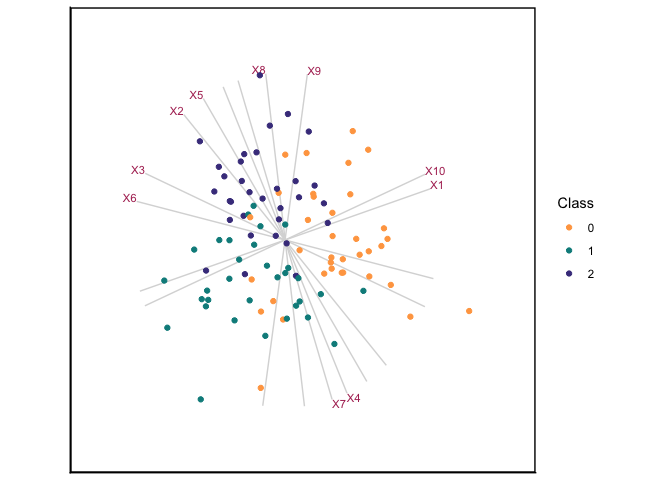
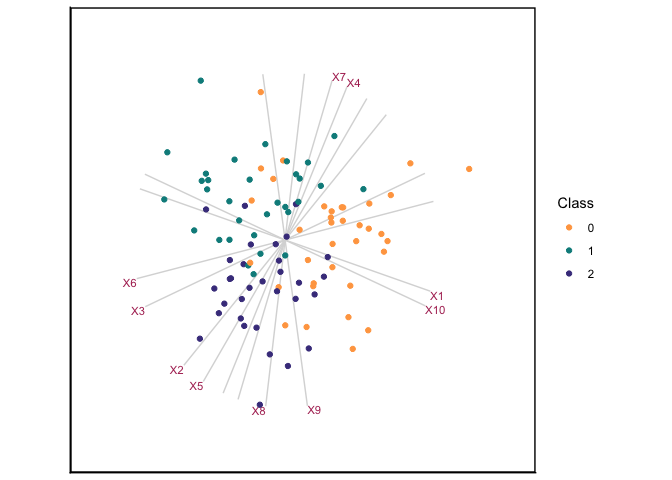
updated read me

diff --git a/README.md b/README.md
@@ -61,12 +61,3 @@ wideRhino is purpose-built for the challenges of high-dimensional
 multivariate analysis. By leveraging the generalised singular value
 decomposition (GSVD), it allows users to construct canonical variate
 analysis (CVA) biplots even when classical assumptions break down.
-
-## Acknowledgments
-
-The CVA-GSVD methodology and the package as a whole are the author’s
-own work. One implementation detail is not: `wideRhino` originally
-relied on the `geigen` package for its GSVD computation, and after
-`geigen` was archived on CRAN, its internal `gsvd()` replacement (see
-`R/gsvd.R`) was written with the assistance of [Claude
-Code](https://claude.com/claude-code) (Anthropic).
